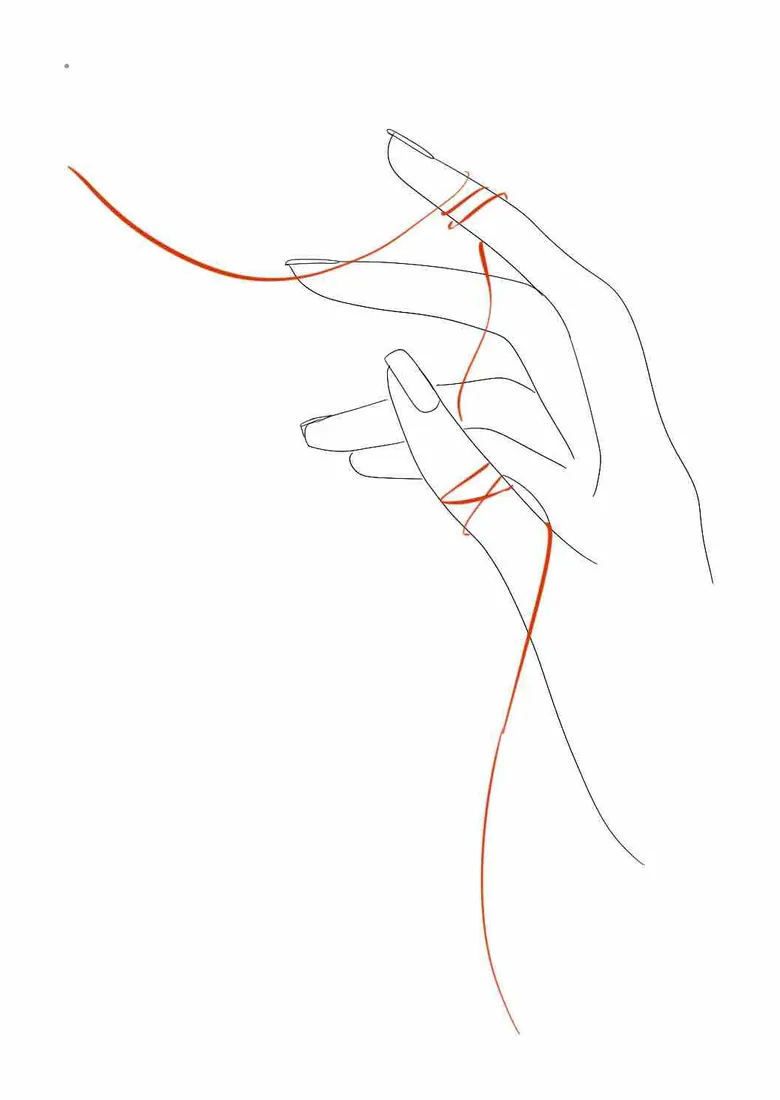
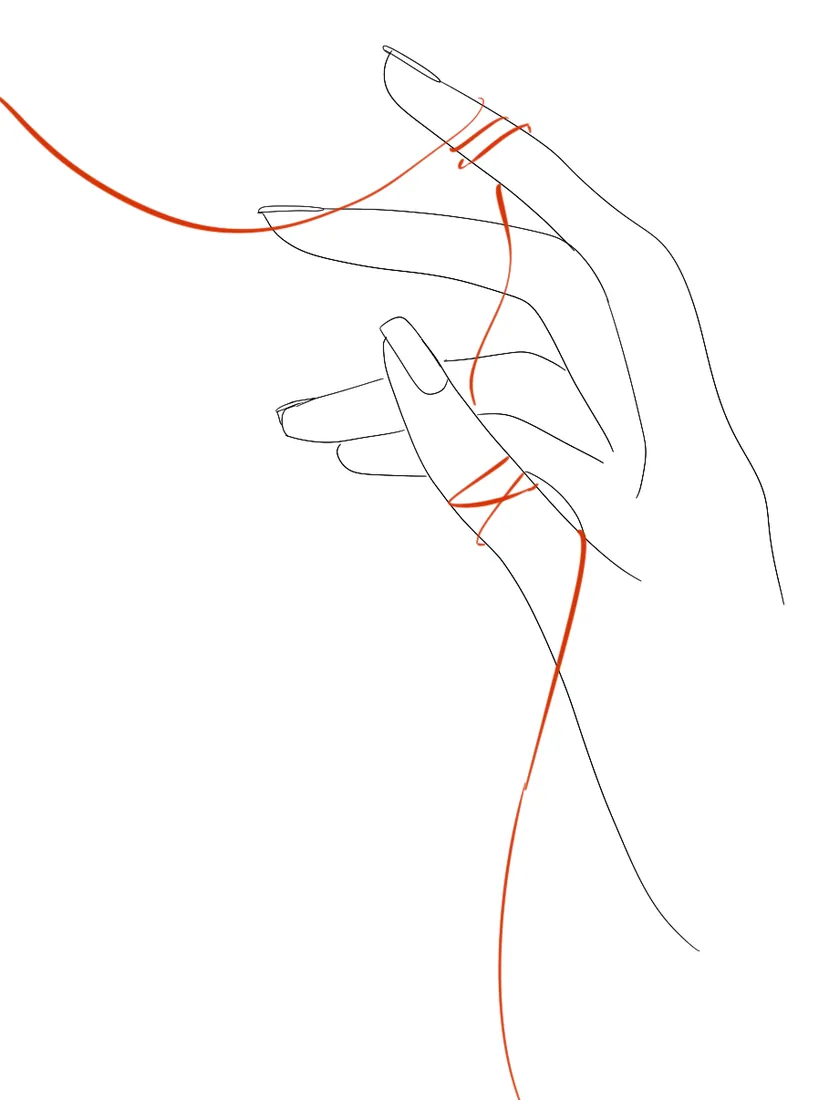
Reorder the gallery and give every piece its real medium
Ordem das salas invertida: Digital abre, Paint and pencil no meio, On paper
fecha. Dentro de cada sala, a ordem das pecas e a dela.

A sala que se chamava "Ink on paper" virou "On paper" e recebeu os desenhos
a lapis que estavam em Paint and pencil, porque agora ela tem nanquim,
grafite e lapis de cor, e o nome antigo so descrevia um dos tres.

As tecnicas passaram a ser as dela, nao o meu chute olhando a imagem. Duas
mudam de material: o "Heart, Curled" que eu tinha lido como nanquim e lapis,
e a Medusa e lapis de cor com caneta Posca, nao nanquim com cor.

O casal virou "Us", que foi a escolha dela entre as tres que sugeri. O
apelido nao ia sobreviver a traducao: o site e em ingles e "gordo" se le
literalmente para quem fala espanhol.

Os dois nomes com Fabricio no titulo se separaram: a digital do gato com o
novelo virou "Fabricio, my orange cat" e a aquarela virou "Fabricio, again".
As duas que eu tinha renomeado voltaram a "Girl and Cat" e "Study, Girl and
Cat".

A Akai Ito trocou de arquivo: ela reexportou com o fio vermelho mais forte e
o traco mais limpo.

diff --git a/src/data/art.js b/src/data/art.js
@@ -1,92 +1,40 @@
-// Gerado a partir de ~/Desktop/desenhos. As salas sao as pastas dela.
-// Titulos e tecnicas confirmados por ela. Sem ano, por escolha dela.
+// Gerado a partir de ~/Desktop/desenhos. Ordem das salas, ordem das pecas,
+// titulos e tecnicas sao escolha dela. Sem ano, tambem escolha dela.
 // `video` e opcional: quando existe, e o timelapse do Procreate.
 export const ROOMS = [
-  {
-    "name": "Ink on paper",
-    "line": "Three hearts and a Medusa. The line does all the work.",
-    "items": [
-      {
-        "src": "/images/art/anatomical-heart.webp",
-        "title": "Anatomical Heart",
-        "medium": "Ink on paper",
-        "w": 733,
-        "h": 1100
-      },
-      {
-        "src": "/images/art/medusa.webp",
-        "title": "Medusa",
-        "medium": "Ink and color on paper",
-        "w": 830,
-        "h": 1100
-      },
-      {
-        "src": "/images/art/heart-curled.webp",
-        "title": "Heart, Curled",
-        "medium": "Ink on paper",
-        "w": 1100,
-        "h": 1100
-      },
-      {
-        "src": "/images/art/heart-made-of-arms.webp",
-        "title": "Heart, Made of Arms",
-        "medium": "Ink on paper",
-        "w": 733,
-        "h": 1100
-      }
-    ]
-  },
-  {
-    "name": "Paint and pencil",
-    "line": "Watercolor and graphite. Cats, a fox, and the people holding them.",
-    "items": [
-      {
-        "src": "/images/art/girl-and-cat.webp",
-        "title": "Kissing Fabrício",
-        "medium": "Watercolor on paper",
-        "w": 733,
-        "h": 1100
-      },
-      {
-        "src": "/images/art/study-girl-and-cat.webp",
-        "title": "Kissing Fabrício, Study",
-        "medium": "Pencil on paper",
-        "w": 733,
-        "h": 1100
-      },
-      {
-        "src": "/images/art/fabricio-my-orange-cat.webp",
-        "title": "Fabrício, My Orange Cat",
-        "medium": "Watercolor on paper",
-        "w": 886,
-        "h": 1100
-      },
-      {
-        "src": "/images/art/fox.webp",
-        "title": "Fox",
-        "medium": "Watercolor on paper",
-        "w": 733,
-        "h": 1100
-      },
-      {
-        "src": "/images/art/cat-studies.webp",
-        "title": "Cat Studies",
-        "medium": "Pencil on paper",
-        "w": 830,
-        "h": 1100
-      }
-    ]
-  },
   {
     "name": "Digital",
     "line": "Flat color and line, all of it drawn in Procreate with an Apple Pencil.",
     "items": [
       {
-        "src": "/images/art/akai-ito-japanese-legend.webp",
-        "title": "Akai Ito (Japanese legend)",
+        "src": "/images/art/gordo.webp",
+        "title": "Us",
         "medium": "Procreate on iPad",
-        "w": 780,
-        "h": 1100
+        "w": 1100,
+        "h": 825,
+        "video": "/videos/gordo.mp4"
+      },
+      {
+        "src": "/images/art/fabricio.webp",
+        "title": "Fabrício, my orange cat",
+        "medium": "Procreate on iPad",
+        "w": 984,
+        "h": 1054
+      },
+      {
+        "src": "/images/art/meandfabris.webp",
+        "title": "Me and Fabrício",
+        "medium": "Procreate on iPad",
+        "w": 906,
+        "h": 1100,
+        "video": "/videos/meandfabris.mp4"
+      },
+      {
+        "src": "/images/art/me-coquinho-and-pepito.webp",
+        "title": "Me, Coquinho and Pepito",
+        "medium": "Procreate on iPad",
+        "w": 640,
+        "h": 640
       },
       {
         "src": "/images/art/me-in-my-twenties.webp",
@@ -103,34 +51,86 @@ export const ROOMS = [
         "h": 1100
       },
       {
-        "src": "/images/art/me-coquinho-and-pepito.webp",
-        "title": "Me, Coquinho and Pepito",
+        "src": "/images/art/akai-ito-japanese-legend.webp",
+        "title": "Akai Ito (Japanese legend)",
         "medium": "Procreate on iPad",
-        "w": 640,
-        "h": 640
+        "w": 829,
+        "h": 1100
+      }
+    ]
+  },
+  {
+    "name": "Paint and pencil",
+    "line": "Watercolor on cotton paper. Fabrício twice, and a fox.",
+    "items": [
+      {
+        "src": "/images/art/girl-and-cat.webp",
+        "title": "Girl and Cat",
+        "medium": "Watercolor on paper",
+        "w": 733,
+        "h": 1100
       },
       {
-        "src": "/images/art/fabricio.webp",
-        "title": "Fabrício",
-        "medium": "Procreate on iPad",
-        "w": 984,
-        "h": 1054
+        "src": "/images/art/fabricio-my-orange-cat.webp",
+        "title": "Fabrício, again",
+        "medium": "Watercolor on paper",
+        "w": 886,
+        "h": 1100
       },
       {
-        "src": "/images/art/gordo.webp",
-        "title": "Gordo and Me",
-        "medium": "Procreate on iPad",
+        "src": "/images/art/fox.webp",
+        "title": "Fox",
+        "medium": "Watercolor on paper",
+        "w": 733,
+        "h": 1100
+      }
+    ]
+  },
+  {
+    "name": "On paper",
+    "line": "Ink, pencil and Posca. Three hearts, a Medusa and two studies.",
+    "items": [
+      {
+        "src": "/images/art/anatomical-heart.webp",
+        "title": "Anatomical Heart",
+        "medium": "Ink pen on paper",
+        "w": 733,
+        "h": 1100
+      },
+      {
+        "src": "/images/art/heart-curled.webp",
+        "title": "Heart, Curled",
+        "medium": "Pencil on paper",
         "w": 1100,
-        "h": 825,
-        "video": "/videos/gordo.mp4"
+        "h": 1100
       },
       {
-        "src": "/images/art/meandfabris.webp",
-        "title": "Me and Fabrício",
-        "medium": "Procreate on iPad",
-        "w": 906,
-        "h": 1100,
-        "video": "/videos/meandfabris.mp4"
+        "src": "/images/art/study-girl-and-cat.webp",
+        "title": "Study, Girl and Cat",
+        "medium": "Pencil on paper",
+        "w": 733,
+        "h": 1100
+      },
+      {
+        "src": "/images/art/cat-studies.webp",
+        "title": "Cat Studies",
+        "medium": "Pencil on paper",
+        "w": 830,
+        "h": 1100
+      },
+      {
+        "src": "/images/art/medusa.webp",
+        "title": "Medusa",
+        "medium": "Colored pencil and Posca pen on paper",
+        "w": 830,
+        "h": 1100
+      },
+      {
+        "src": "/images/art/heart-made-of-arms.webp",
+        "title": "Heart",
+        "medium": "Ink pen on paper",
+        "w": 733,
+        "h": 1100
       }
     ]
   }
